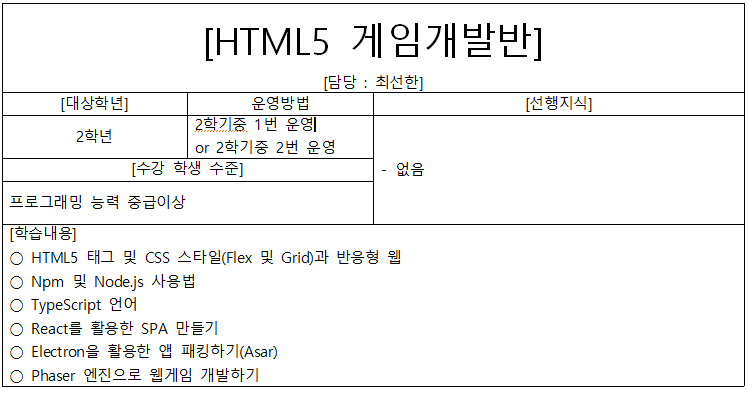
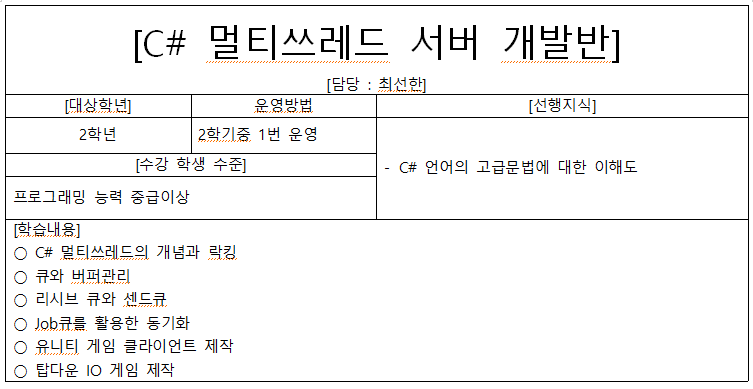
add play canvas

Changed region(s): [[0.0, 0.0, 1.0, 0.9871], [0.1537, 0.0617, 0.246, 0.1542]]

diff --git a/app.js b/app.js
@@ -65,12 +65,12 @@ window.onload = ()=>{
             part:1,
         },
         {
-            name:"유니티 심화반(외부강사)", 
-            file:"09_no.png", 
-            difficulty:"고급", 
+            name:"PlayCanvas를 활용한 AR 게임 개발", 
+            file:"09.png", 
+            difficulty:"중급", 
             teacher: "유준무", 
             grade:[2], 
-            desc:"아직 외부강사의 정보가 없습니다.",
+            desc:"Javascript 언어 기본 학습, WebXR을 활용한 AR게임 개발",
             part:1,
         },
         {
@@ -83,12 +83,12 @@ window.onload = ()=>{
             part:1,
         },
         {
-            name:"HTML5 웹 및 게임개발반", 
+            name:"C# 멀티쓰레드 서버를 활용한 멀티플레이어 게임 개발반", 
             file:"11.png", 
             difficulty:"중급", 
             teacher: "최선한", 
             grade:[2], 
-            desc:"Node.js, TypeScript, React를 이용한 웹앱 및 Phaser엔진을 활용한 웹게임 개발",
+            desc:"C# 멀티쓰레드를 활용하여 유니티 클라이언트와 소켓통신을 하는 게임 개발",
             part:1,
         },
         {
